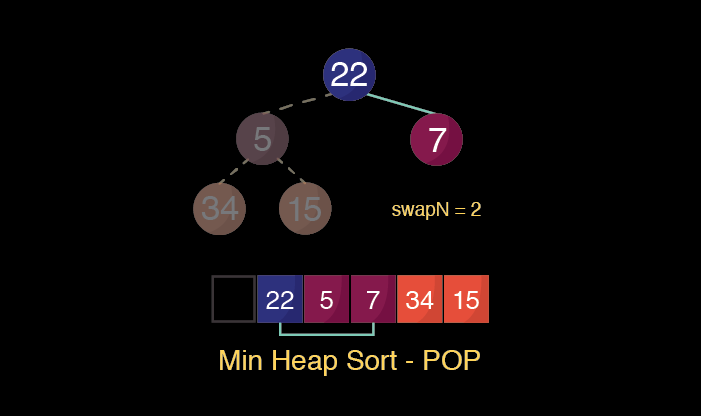
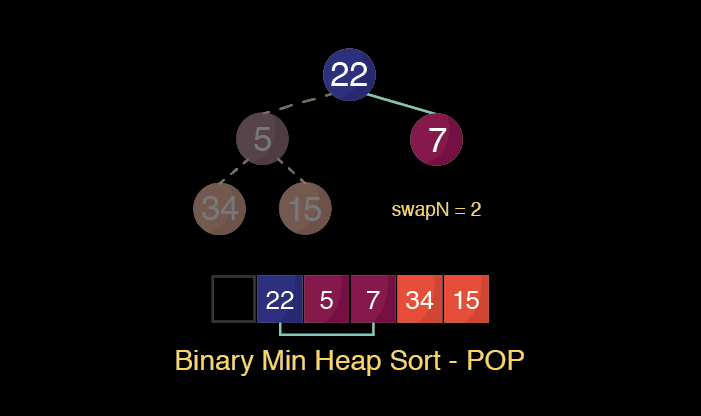
finish up heap map blog

Changed region(s): [[0.2397, 0.8438, 0.7489, 0.9062]]

diff --git a/src/pages/blog/heap-maps-101.md b/src/pages/blog/heap-maps-101.md
@@ -13,14 +13,15 @@ tags:
   - algoritms
 ---
 
-Great another tutorial on heap maps. Good news is there can never be enough tutorials on heap maps because they can be trick to understand. First thing to know is a heap map is a set of values stored in a specific order that allows efficient access or modification. Heap maps are usually represented in a tree structure and there is only two sorting directions the tree values can be stored. Heap map can be either be ascending (smallest number is at the top) called a **min heap** or descending(where the largest number is at the top) known as a **max heap**.
+Great another tutorial on heap maps. Good news is there can never be enough tutorials on heap maps since they can be trick to understand. Plus this one includes a bunch of diagrams. So a heap maps, also known as a heap, is a set of values stored in a specific order that allows efficient access or modification. Heap maps are usually represented in a tree structure and there is only two sorting directions the tree's values can be stored. There are  **min heaps** where the smallest number is represented at the top or a **max heap** where the largest number is represented at the top.
 
 !["Binary Min Max Heap Map Comparison"](/img/heap-maps-101/min-max-heap-diagram.png "Binary Min Max Heap Map Comparison")
 
 ### Why use a heap map
-We have to first look at the problem we are trying to solve. If you want to find the smallest or the largest element quickly then heap map is the answer. This is because we are always sorting the heap when elements are entering or leaving. One of the biggest benefits is not having to look at every element when sorting elements. In tree structure, after looking at the first row of children and determining which branch to follow we are eliminating having to look at least half of the tree. In small heap maps the benefits may not be apparent but with larger heap map it is plenty. 
+To decide if a heap map is the right thing to use we have to first look at the problem we are trying to solve. If you want to find the smallest or largest value quickly then a heap map is the answer. This is because we are always sorting the heap when elements are entering or leaving. One of the biggest benefits of this implementation is not having to look at every element when sorting. In tree structure, after looking at the first row of children and determining which branch to follow we are eliminating having to look at least half of the tree. In small heap maps the benefits may not be apparent but with larger heap map it is plenty. 
 
-The most common implementation of heaps are the _binary_ kind. This is where a parent node can only have up to _two_ child. And we can track the parent's children using a solution like this.
+The most common implementation of heaps are the _binary_ kind. This is where a parent element can only have up to _two_ children. And we can track the parent's children using a solution like this.
+
 ```javascript
 class Node {
   constructor(val, left, right) {
@@ -30,7 +31,8 @@ class Node {
   }
 }
 ```
-The reason why binary heap maps are so common is because instead of worrying about linking and keeping track of objects, we can take advantage of using an array to store and sort the values. We will always be able to find a parent's left child by using this fail proof -- super complicated -- formula of `index * 2` and the right child `(index*2) + 1`. As an alternative we can find a child's parent by doing another fool proof -- even more complicated -- formula of `index / 2`.
+
+The reason why binary heap maps are so common is because instead of worrying about linking and keeping track of elements, we can take advantage of using an array to store and sort values. We will always be able to find a parent's left child by using this fail proof -- super complicated -- formula of `index * 2` and the right child by adding one to the left child. As an alternative we can find a child's parent by doing another fool proof -- even more complicated -- formula of `index / 2`.
 
 **Examples of Heap Maps**
 - A* Algoritrim
@@ -39,34 +41,32 @@ The reason why binary heap maps are so common is because instead of worrying abo
 - Whole Food checkout customers ¯\ __ (ツ) __ /¯
 
 ### [Are Priority Queues and Heap Maps the same](#priority-queue-verses-heap-map)
-Short answer. Yes. Priority queues are an idea verses an implementation. Long answer. Ummmmmm, sure! Priority queues can have any underlying data structure like an array, link list, hash map, binary tree, or a heap map. As long as you can get the highest priority element, it is an priority queue. And depending which operation (peek, add, remove) needs to be the most efficient is best way to chose the data structure to use.  
+Short answer. Yes. Priority queues are an idea verses an implementation. Long answer. Ummmmmm, sure! Priority queues can have any underlying data structure like an array, link list, hash map, binary tree, or a **heap map**. As long as you can get the highest priority element, it is an priority queue. An the best way to chose which data structure to use depends on which operation (peek, add, remove) needs to be the most efficient.  
 
 !["Data Structure Runtime Representations"](/img/heap-maps-101/lmu-data-structure-references.png "Data Structure Runtime Representations")
 
 Source [CS LMU edu](https://cs.lmu.edu/~ray/notes/pqueues/)
 
-As a small side note: Usually when choosing a heap structure we would like to only remove the `peek` element. But we are not limited to that. We can remove any element by creating another function. If removing a random element is a very important feature, it would be best to choose a different data structure like a binary search tree(BST). This is because heaps are better at finding the min or max. Whereas binary search trees are good at find all elements, since its ordered from left to right.
+As a small side note: Usually when choosing a heap structure we would like to only remove the `peek` element. This doesn't mean we are not limited to that. We can remove any element by creating another function. If removing a random element is a very important feature, it would be best to choose a different data structure like a binary search tree(BST). This is because heaps are better at finding the min or max. Whereas binary search trees are good at find all elements, since its ordered from left to right. Just something to keep in mind.
 
 ***
 
-Another note: You will notice through out this tutorial I left the array index 0 as null. When learning how to implement an heap maps most tutorials I followed were not in JavaScript and left the the first index 0 as well. And I wanted you to have a good comparison when looking at other tutorials.
+### [Peek](#peak) - Min Heap
+Element with the smallest value. This is constant time look up. **Θ(1)**
 
-### [Peek](#peak)
-Element at index 1. It is constant time look up. **Θ(1)**
+### [Add](#add) - Binary Min Heap
+When an element is added to the heap map we push it to the last index of the array. Then we would need to "bubble it up". This new element will alway be a child element until it is in its final position. So we need to compare the child element and swap array indexes with it's parent as needed. 
 
-### [Add](#add)
-When an element is added to the heap map we push it to the last index of the array. Then we would need to "bubble it up". This new element will alway be a child element until it is in its final position. So we need to compare the child element and swap array indexes as needed. 
-
-This can be done on logarithmic time **Θ(log n)**
+This can be done on logarithmic time. **Θ(log n)**
 
 Let's begin 
 
-!["Min Heap Add Step 1"](/img/heap-maps-101/min-heap-add-1-wide.png "Min Heap Add Step 1")
+!["Binary Min Heap Add Step 1"](/img/heap-maps-101/min-heap-add-1-wide.png "Binary Min Heap Add")
 
 *** 
 
-We first start with adding the new element to the back of the array. 
-!["Min Heap Add Step 2"](/img/heap-maps-101/min-heap-add-2-wide.png "Min Heap Add Step 2")
+We first start by adding the new element to the end of the array. 
+!["Binary Min Heap Add Step 1"](/img/heap-maps-101/min-heap-add-2-wide.png "Binary Min Heap Add Step 1")
 ```javascript
 this.heap.push(element);
 ```
@@ -74,60 +74,63 @@ this.heap.push(element);
 ***
 
 We then need to compare this new element to its parent to see if it smaller or larger. In this case 2 is smaller then 7. We can swap the two elements.
-!["Min Heap Add Step 3"](/img/heap-maps-101/min-heap-add-3-wide.png "Min Heap Add Step 3")
+!["Binary Min Heap Add Step 2"](/img/heap-maps-101/min-heap-add-3-wide.png "Binary Min Heap Add Step 2")
 ```javascript
 if (parent <= element) { break; } // false
-```
-
-!["Min Heap Add Step 4"](/img/heap-maps-101/min-heap-add-4-wide.png "Min Heap Add Step 4")
-```javascript
 else {
   this.heap[parentN] = element;
   this.heap[n] = parent;
 }
 ```
 
+
+
 **The first loop is over so we start the comparisons again**
 
 ***
 
 We then need to compare the new element to its parent to see if it smaller or larger. In this case 4 is NOT smaller then 3. Therefore it can stay at its current index.
-!["Min Heap Add Step 5"](/img/heap-maps-101/min-heap-add-5-wide.png "Min Heap Add Step 5")
+!["Binary Min Heap Add Step 3"](/img/heap-maps-101/min-heap-add-4-wide.png "Binary Min Heap Add Step 3")
 ```javascript
 if (parent <= element) { break; } // true
+else {
+  this.heap[parentN] = element;
+  this.heap[n] = parent;
+}
 ```
-
 **YAY the heap is in order!!!!**
+!["Binary Min Heap Add Step 4"](/img/heap-maps-101/min-heap-add-5-wide.png "Binary Min Heap Add Step 4")
+
 
 ### POP
 
-When an element is removed it creates an hole in the array. We need to fill that hole with the last element in the array. 
+When an element is removed it creates a hole in the array. We need to fill that hole with the last element in the array. 
 
-We would then need to shuffle the element down in to the correct balanced position. By doing so we are comparing the element's with it's new children  and swapping array indexes when needed.
+We would then need to shuffle the element down into the correct balanced position. By doing so we are comparing the new element with it's children and swapping array indexes when needed.
 
-This can be done on logarithmic time **Θ(log n)**
+This can be done on logarithmic time. **Θ(log n)**
 
 Let's begin.
 
-!["Min Heap Pop Step 1"](/img/heap-maps-101/pop-min-heap-1-wide.png "Min Heap Pop Step 1")
+!["Binary Min Heap Pop"](/img/heap-maps-101/pop-min-heap-1-wide.png "Binary Min Heap Pop")
 
 ***
 
 We need to remove the first index by replacing it with the last index in the array. 
 
-!["Min Heap Pop Step 2"](/img/heap-maps-101/pop-min-heap-2-wide.png "Min Heap Pop Step 2")
+!["Binary Min Heap Pop Step 1"](/img/heap-maps-101/pop-min-heap-2-wide.png "Binary Min Heap Pop Step 1")
 ```javascript
 const peek = this.heap[1];
 ```
-!["Min Heap Pop Step 3"](/img/heap-maps-101/pop-min-heap-3-wide.png "Min Heap Pop Step 3")
+!["Binary Min Heap Pop Step 2"](/img/heap-maps-101/pop-min-heap-3-wide.png "Binary Min Heap Pop Step 2")
 ```javascript
 const end = this.heap.pop();
 this.heap[1] = end;
 ```
 ***
 
-We need to check the left child against the parent to see if it is smaller. In this case 5 is smaller then 22. Now lets save the index number of the left child which is 2.
-!["Min Heap Pop Step 4"](/img/heap-maps-101/pop-min-heap-4-wide.png "Min Heap Pop Step 4")
+Next, check the left child against the parent to see if it is smaller. In this case 5 is smaller then 22. Now lets save the index number of the left child which is 2.
+!["Binary Min Heap Pop Step 3"](/img/heap-maps-101/pop-min-heap-4-wide.png "Binary Min Heap Pop Step 3")
 ```javascript
 var leftScore = this.compare(parent, leftChild);
 if (leftScore > 0) { // true
@@ -137,13 +140,14 @@ if (leftScore > 0) { // true
 
 ***
 
-We will do the same comparison to the right child. In this case 7 is smaller then 22. But before we can save the child's index we need to compare it to the left child. 5 is smaller then 7 so we actually don't need to save the the right child's index.
+We will do the same comparison to the right child. In this case 7 is smaller then 22. 
 
-!["Min Heap Pop Step 5a"](/img/heap-maps-101/pop-min-heap-5-wide.png "Min Heap Pop Step 5a")
+!["Binary Min Heap Pop Step 4a"](/img/heap-maps-101/pop-min-heap-5-wide.png "Binary Min Heap Pop Step 4a")
 ```javascript
 const rightScore = this.compare(parent, rightChild);
 ```
-!["Min Heap Pop Step 5b"](/img/heap-maps-101/pop-min-heap-5b-wide.png "Min Heap Pop Step 5b")
+But before we can save the right child's index we need to compare it to the left child. 5 is smaller then 7 so we actually don't need to save the the right child's index.
+!["Binary Min Heap Pop Step 4b"](/img/heap-maps-101/pop-min-heap-5b-wide.png "Binary Min Heap Pop Step 4b")
 ```javascript
 if (rightScore > leftScore) { // false
   swapN = rightN;
@@ -152,8 +156,8 @@ if (rightScore > leftScore) { // false
 
 ***
 
-Now we swap the indexes between the parent and child
-!["Min Heap Pop Step 6"](/img/heap-maps-101/pop-min-heap-6-wide.png "Min Heap Pop Step 6")
+Now we swap the indexes between the parent and the left child
+!["Binary Min Heap Pop Step 5"](/img/heap-maps-101/pop-min-heap-6-wide.png "Binary Min Heap Pop Step 5")
 ```javascript
 // swapN = leftN
 this.heap[n] = this.heap[swapN];
@@ -176,24 +180,18 @@ if (leftScore > 0) { // false
 ```
 
 ***
-Next we comparison the right child it's parent. In this case 15 is smaller then 22. Since we haven't saved a "swap" index and we know the child is smaller then it's parent, we can save the index number of the right child which is 5.
+Next, we comparison the right child to it's parent. In this case 15 is smaller then 22. Since we haven't saved a "swap" index and we know the child is smaller then it's parent, we can save the index number of the right child which is 5.
 
 !["Min Heap Pop Step 8"](/img/heap-maps-101/pop-min-heap-8-wide.png "Min Heap Pop Step 8")
 ```javascript
 const rightScore = this.compare(parent, rightChild);
-```
-!["Min Heap Pop Step 9"](/img/heap-maps-101/pop-min-heap-9-wide.png "Min Heap Pop Step 9")
-```javascript
 if ((swapN == null && rightScore > 0)) { // true
   swapN = rightN;
 }
 ```
 
-***
-
 Now we swap the indexes between the parent and child
-
-!["Min Heap Pop Step 10"](/img/heap-maps-101/pop-min-heap-10-wide.png "Min Heap Pop Step 10")
+!["Min Heap Pop Step 9"](/img/heap-maps-101/pop-min-heap-9-wide.png "Min Heap Pop Step 9")
 ```javascript
 // swapN = rightN
 this.heap[n] = this.heap[swapN];
@@ -201,9 +199,15 @@ this.heap[swapN] = parent;
 n = swapN;
 ```
 
-**YAY the heap is in order!!!!**
+***
 
-When learning how to implement an heap map I followed [Eloquent JavaScript](http://eloquentjavascript.net/1st_edition/appendix2.html) heap map implementation. It has a score function, which I didn't found it not very useful. So I created a `compare` function that determines if the parent is larger by returning a positive number.
+**YAY the heap is in order!!!!**
+!["Min Heap Pop Step 10"](/img/heap-maps-101/pop-min-heap-10-wide.png "Min Heap Pop Step 10")
+
+
+When learning how to implement an heap map in JavaScript I followed [Eloquent JavaScript](http://eloquentjavascript.net/1st_edition/appendix2.html) heap map implementation. It has a score function, which I didn't found very useful. So I created a `compare` function that determines if the parent is larger by returning a positive number. 
+
+You might have also noticed I left the array index 0 as null. You by no means need to do the same. When learning how to implement an heap maps most tutorials I followed were not in JavaScript and left the the first index 0 as well. And I wanted to have a good comparison when looking at other tutorials.
 
 Now the part we have all been waiting for. The full code!!!
 ```javascript
@@ -222,7 +226,7 @@ class BinaryHeap {
   }
 
   /**
-   * Determing if the parent is larger then its child.
+   * Determine if the parent is larger then its child.
    * Returning a positive number means parent is larger
    * @param {number} parent
    * @param {number} child
@@ -234,7 +238,7 @@ class BinaryHeap {
   }
 
   /**
-   * Get the peek element fill the in the holw with the last element in array
+   * Get the peek element fill the in the hole with the last element in array
    * Then sort the replaced element.
    *
    * return number
@@ -259,7 +263,6 @@ class BinaryHeap {
   add(element) {
     this.heap.push(element);
     this.bubbleUp(this.size() - 1);
-    // console.log(JSON.parse(JSON.stringify(this.heap)));
   }
 
   /**
@@ -279,7 +282,7 @@ class BinaryHeap {
       // and we can leave it in its current index
       if (this.compare(parent, element) < 0) break;
 
-      //Otherwise swap the parent and child
+      // Otherwise swap the parent and child
       this.heap[parentN] = element;
       this.heap[n] = parent;
       n = parentN;
@@ -299,7 +302,7 @@ class BinaryHeap {
       // If the first child exists (is inside the array)...
       if (leftN < length) {
         const leftChild = this.heap[leftN];
-        //positive result means the parent is larger
+        // positive result means the parent is larger
         var leftScore = this.compare(parent, leftChild);
         if (leftScore > 0) swapN = leftN;
       }
@@ -335,6 +338,6 @@ const heap = new BinaryHeap();
 });
 // When looping the console will show the ending heap map over and over. 
 //You can use this to see whats in going on step by step in the console.
-// It is hacky don't quote me. :)
+// It is HACKY don't quote me. :)
 console.log(JSON.parse(JSON.stringify(heap.heap)));
 ```
